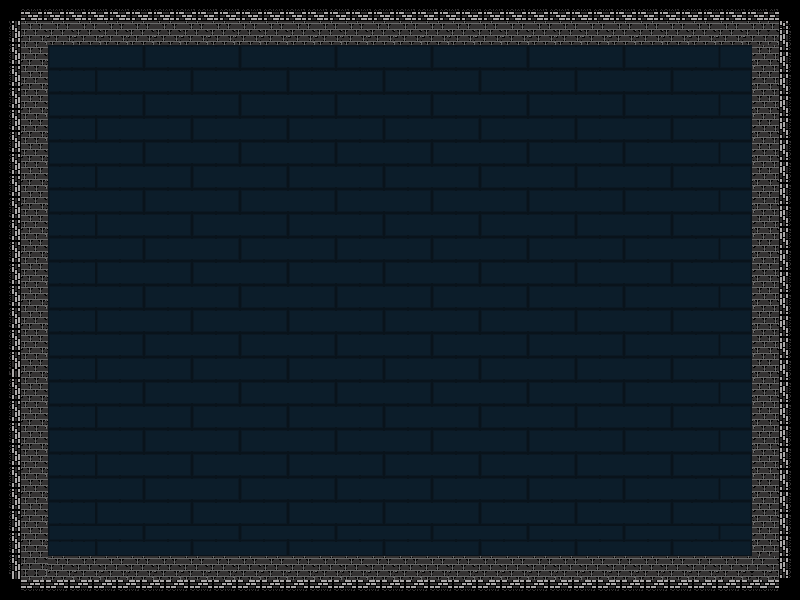
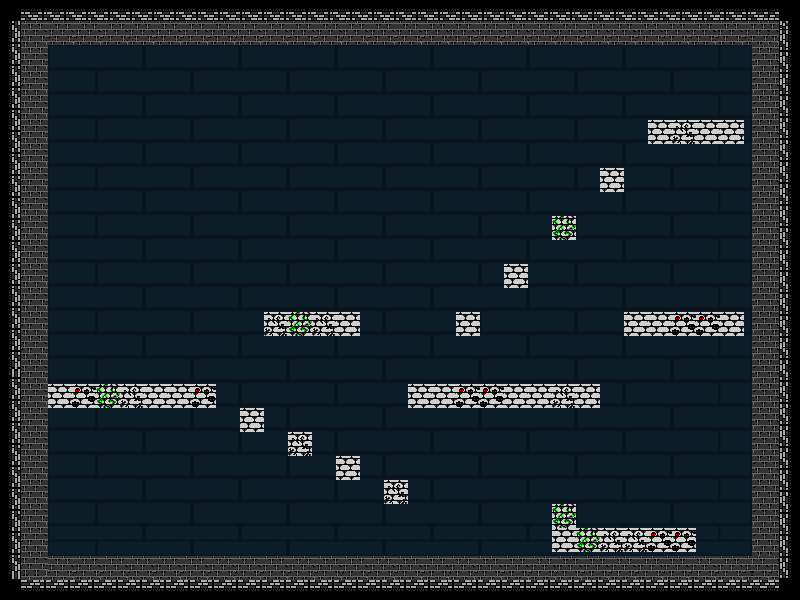
0.0.2

diff --git a/In The Shadow/GameplayScreen.cs b/In The Shadow/GameplayScreen.cs
@@ -12,11 +12,16 @@ namespace In_The_Shadow
     public class GameplayScreen : screen
     {
         Texture2D Background;
+        Texture2D Box;
         Game1 game;
 
         AnimatedTexture Player;
         bool filpPlayer = false;
-        Vector2 PlayerPos = new Vector2(500, 505);
+        bool walkR = false;
+        bool walkL = false;
+        Vector2 PlayerPos = new Vector2(300, 506);
+        Vector2 velocity;
+        bool Jump = false;
 
         KeyboardState keyboardState;
         KeyboardState old_keyboardState;
@@ -25,15 +30,22 @@ namespace In_The_Shadow
         private const float Scale = 1.0f;
         private const float Depth = 0.5f;
 
+        private static readonly TimeSpan TimeJump = TimeSpan.FromMilliseconds(200);
+        private TimeSpan _TimeJump;
+
+        Vector2 Box1Pos = new Vector2(200, 532);
+
         public GameplayScreen(Game1 game, EventHandler theScreenEvent)
         : base(theScreenEvent)
         {
             //Load the background texture for the screen
             Background = game.Content.Load<Texture2D>("Backgrund800X600");
+            Box = game.Content.Load<Texture2D>("woodbox");
             Player = new AnimatedTexture(Vector2.Zero, Rotation, Scale, Depth);
             Player.Load(game.Content, "shadow2", 8, 1, 15);
 
             Player.Pause(0, 0);
+
             this.game = game;
         }
         public override void Update(GameTime theTime)
@@ -46,21 +58,25 @@ namespace In_The_Shadow
             {
                 PlayerPos.X -= 2;
                 filpPlayer = true;
+                walkL = true;
                 Player.Play();
             }
             else if (old_keyboardState.IsKeyDown(Keys.Left) && keyboardState.IsKeyUp(Keys.Left))
             {
                 Player.Pause(0, 0);
+                walkL = false;
             }
             if (Keyboard.GetState().IsKeyDown(Keys.Right))
             {
                 filpPlayer = false;
                 PlayerPos.X += 2;
+                walkR = true;
                 Player.Play();
             }
             else if (old_keyboardState.IsKeyDown(Keys.Right) && keyboardState.IsKeyUp(Keys.Right))
             {
                 Player.Pause(0, 0);
+                walkR = false;
             }
             old_keyboardState = keyboardState;
 
@@ -72,14 +88,213 @@ namespace In_The_Shadow
             {
                 PlayerPos.X += 2;
             }
+            if (PlayerPos.Y < 44)
+            {
+                velocity.Y = 0f;
+            }
+            PlayerPos.Y += 2;
+            if (!Jump)
+            {
+                PlayerPos.Y += 2;
+            }
+
+
+            Rectangle charRectangle = new Rectangle((int)PlayerPos.X + 12, (int)PlayerPos.Y, 27, 48);
+            Rectangle Platform1 = new Rectangle((int)48, (int)553, 703, 43);
+            Rectangle Platform2 = new Rectangle((int)550, (int)503, 26, 53);
+            Rectangle Platform3 = new Rectangle((int)576, (int)528, 120, 28);
+            Rectangle Platform4 = new Rectangle((int)384, (int)480, 24, 24);
+            Rectangle Platform5 = new Rectangle((int)336, (int)456, 24, 24);
+            Rectangle Platform6 = new Rectangle((int)288, (int)432, 24, 24);
+            Rectangle Platform7 = new Rectangle((int)240, (int)408, 24, 24);
+            Rectangle Platform8 = new Rectangle((int)48, (int)384, 164, 24);
+            Rectangle Platform9 = new Rectangle((int)408, (int)384, 192, 24);
+            Rectangle Platform10 = new Rectangle((int)264, (int)312, 98, 24);
+            Rectangle Platform11 = new Rectangle((int)456, (int)312, 24, 24);
+            Rectangle Platform12 = new Rectangle((int)504, (int)264, 24, 24);
+            Rectangle Platform13 = new Rectangle((int)552, (int)216, 24, 24);
+            Rectangle Platform14 = new Rectangle((int)600, (int)168, 24, 24);
+            Rectangle Platform15 = new Rectangle((int)648, (int)120, 98, 24);
+            Rectangle Platform16 = new Rectangle((int)624, (int)312, 120, 24);
+
+            //Box
+            Rectangle Box1 = new Rectangle((int)Box1Pos.X, (int)Box1Pos.Y, 24, 24);
+
+            if (_TimeJump + TimeJump < theTime.TotalGameTime)
+            {
+                if (charRectangle.Intersects(Platform1))
+                {
+                    velocity.Y = 0f;
+                    Jump = false;
+                    PlayerPos.Y = 506;
+                }
+            }
+            if (charRectangle.Intersects(Platform2))
+            {
+                if (PlayerPos.Y >= 455 && PlayerPos.Y <= 465)
+                {
+                    velocity.Y = 0f;
+                    Jump = false;
+                    PlayerPos.Y = 455;
+                }
+                else if (walkL)
+                {
+                    PlayerPos.X += 2;
+                }
+                else if (walkR)
+                {
+                    PlayerPos.X -= 2;
+                }
+            }
+            if (charRectangle.Intersects(Platform3))
+            {
+                if (PlayerPos.Y >= 480 && PlayerPos.Y <= 490)
+                {
+                    velocity.Y = 0f;
+                    Jump = false;
+                    PlayerPos.Y = 480;
+                }
+                else if (walkL)
+                {
+                    PlayerPos.X += 2;
+                }
+                else if (walkR)
+                {
+                    PlayerPos.X -= 2;
+                }
+            }
+            Platform(charRectangle, Platform4, 384, 480);
+            Platform(charRectangle, Platform5, 336, 456);
+            Platform(charRectangle, Platform6, 288, 432);
+            Platform(charRectangle, Platform7, 240, 408);
+            Platform(charRectangle, Platform8, 48, 384);
+            Platform(charRectangle, Platform9, 408, 384);
+            Platform(charRectangle, Platform10, 264, 312);
+            Platform(charRectangle, Platform11, 456, 312);
+            Platform(charRectangle, Platform12, 504, 264);
+            Platform(charRectangle, Platform13, 552, 216);
+            Platform(charRectangle, Platform14, 600, 168);
+            Platform(charRectangle, Platform15, 648, 120);
+            Platform(charRectangle, Platform16, 624, 312);
+
+            //Box
+            BoxCheck(charRectangle, Box1, (int)Box1Pos.X, (int)Box1Pos.Y);
+            Box1Pos.X = BoxMove(charRectangle, Box1, Platform2,(int)Box1Pos.X, (int)Box1Pos.Y);
+
+            if (charRectangle.Intersects(Platform1))
+            {
+                velocity.Y = 0f;
+                Jump = false;
+                PlayerPos.Y = 506;
+            }
+            if (Keyboard.GetState().IsKeyDown(Keys.Up) && Jump == false)
+            {
+                Jump = true;
+                velocity.Y = 6f;
+
+                _TimeJump = theTime.TotalGameTime;
+            }
+
+            if (Jump == true)
+            {
+                PlayerPos.Y -= velocity.Y;
+                float i = 1;
+                velocity.Y -= 0.15f * i;
+            }
+
+            if (Jump == false)
+            {
+                velocity.Y = 0f;
+            }
 
             base.Update(theTime);
         }
         public override void Draw(SpriteBatch theBatch)
         {
             theBatch.Draw(Background, Vector2.Zero, Color.White);
+            theBatch.Draw(Box, Box1Pos, new Rectangle(0, 0, 24, 24), Color.White);
             Player.DrawFrame(theBatch, PlayerPos, filpPlayer);
             base.Draw(theBatch);
+        }
+
+        public void Platform(Rectangle P_rectangle, Rectangle Plat_rectangle, int x, int y)
+        {
+            if (P_rectangle.Intersects(Plat_rectangle))
+            {
+                if (PlayerPos.Y >= y-48 && PlayerPos.Y <= y-38)
+                {
+                    velocity.Y = 0f;
+                    Jump = false;
+                    PlayerPos.Y = y-48;
+                }
+                else if (walkL)
+                {
+                    PlayerPos.X += 2;
+                }
+                else if (walkR)
+                {
+                    PlayerPos.X -= 2;
+                }
+                if (P_rectangle.Top < Plat_rectangle.Bottom)
+                {
+                    velocity.Y = 0f;
+                }
+            }
+        }
+
+        public void BoxCheck(Rectangle P_rectangle, Rectangle Box_rectangle, int x, int y)
+        {
+            if (P_rectangle.Intersects(Box_rectangle))
+            {
+                if (PlayerPos.Y >= y - 48 && PlayerPos.Y <= y - 38)
+                {
+                    velocity.Y = 0f;
+                    Jump = false;
+                    PlayerPos.Y = y - 48;
+                }
+            }
+        }
+
+        public int BoxMove(Rectangle P_rectangle, Rectangle Box_rectangle, Rectangle Plat_rectangle, int x, int y)
+        {
+            if (P_rectangle.Intersects(Box_rectangle))
+            {
+                if (PlayerPos.Y >= y - 48 && PlayerPos.Y <= y - 38)
+                {
+                    velocity.Y = 0f;
+                    Jump = false;
+                    PlayerPos.Y = y - 48;
+                }
+                else if (walkL)
+                {
+                    x -= 2;
+                    if (Box_rectangle.Intersects(Plat_rectangle))
+                    {
+                        x += 2;
+                        PlayerPos.X += 2;
+                    }
+                    if (x < 48)
+                    {
+                        x += 2;
+                        PlayerPos.X += 2;
+                    }
+                }
+                else if (walkR)
+                {
+                    x += 2;
+                    if (Box_rectangle.Intersects(Plat_rectangle))
+                    {
+                        x -= 2;
+                        PlayerPos.X -= 2;
+                    }
+                    if (x > 724)
+                    {
+                        x -= 2;
+                        PlayerPos.X -= 2;
+                    }
+                }
+            }
+            return x;
         }
     }
 

diff --git a/In The Shadow/Game1.cs b/In The Shadow/Game1.cs
@@ -7,7 +7,6 @@ namespace In_The_Shadow
 {
     public class Game1 : Microsoft.Xna.Framework.Game
     {
-        //rrt
         GraphicsDeviceManager graphics;
         SpriteBatch spriteBatch;
         public GameplayScreen mGameplayScreen;
